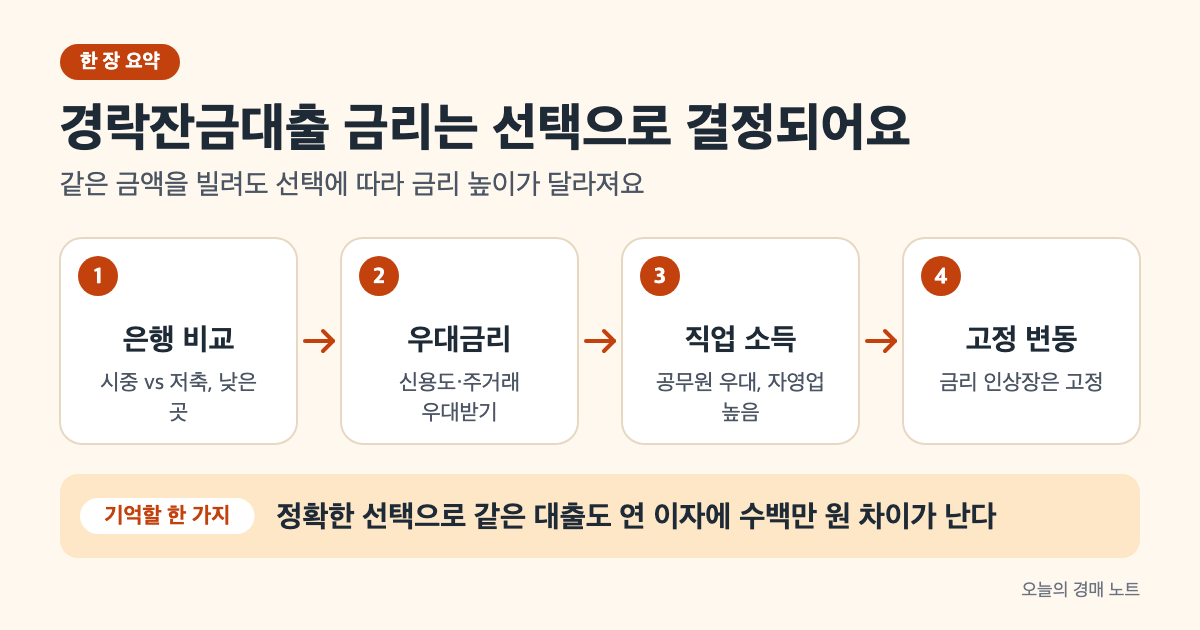
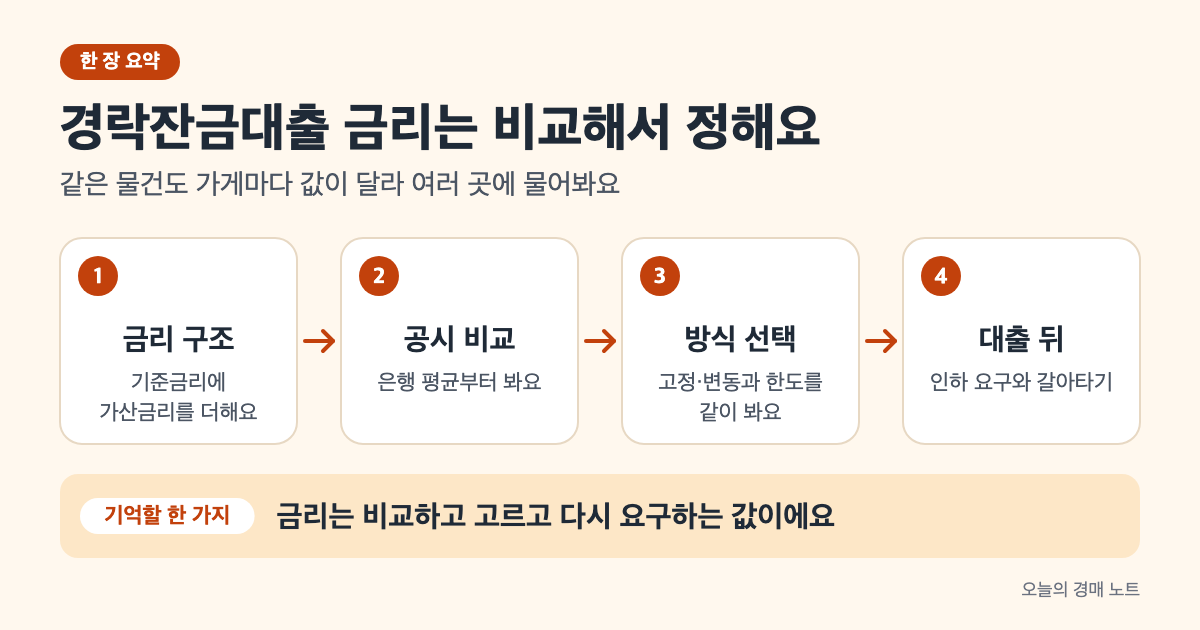
가이드 고쳐쓰기: 경락잔금대출 금리 — 출처 없는 금리 범위 삭제, 공식 공시·법령 기준으로 재작성

diff --git a/content/guide/auction-loan-interest-rate/index.md b/content/guide/auction-loan-interest-rate/index.md
@@ -2,114 +2,119 @@
 title: 경락잔금대출 금리 비교로 이자 줄이는 법
 author: rich-batch
 date: 2026-09-19
-lastmod: 2026-09-19
+lastmod: 2026-10-11
 draft: false
 volatile: true
 categories: ["경매 대출·세금"]
-tags: [경락잔금대출, 금리, 우대금리, 고정금리, 변동금리, DSR, 은행, 신용도]
-description: 경락잔금대출의 금리는 4.5~6.5% 범위에서 은행·신용도·직업에 따라 크게 다릅니다. 금융권별 비교와 우대 조건으로 낮추는 방법을 설명합니다.
+tags: [경락잔금대출, 금리, 가산금리, 고정금리, 변동금리, 중도상환수수료, 금리인하요구권]
+description: 경락잔금대출 금리는 공식 고시값이 없어 직접 비교해야 합니다. 은행별 금리를 공시로 비교하는 법, 스트레스 DSR과 금리의 관계, 중도상환수수료와 금리인하요구권을 원문 기준으로 봅니다.
 cover:
   image: "eli5-overview.png"
-  alt: "경락잔금대출 금리 결정 과정을 4단계로 보여주는 요약 도식: 은행 비교, 우대금리, 직업 소득, 고정 변동"
-  caption: "정확한 선택으로 같은 대출도 이자에 수백만 원 차이를 만든다"
+  alt: "기준금리와 가산금리로 금리가 정해지고, 공시로 비교한 뒤, 고정·변동을 고르고, 대출 뒤에도 금리를 낮출 길이 있다는 네 단계 흐름도"
+  caption: "금리는 정해진 값이 아니라 비교하고 고르고 다시 요구하는 값입니다"
 showToc: true
 TocOpen: true
 ---
 
-경매 낙찰 후 잔금이 부족하면 경락잔금대출을 받게 됩니다. 같은 금액을 빌려도 금리는 은행마다, 신용도마다 크게 다른데, 그 차이를 모르면 매달 이자로 수백만 원을 더 낼 수 있어요. 이 글의 수치는 2026년 9월 19일 기준 공식 자료로 확인했습니다.
+"경락잔금대출 금리는 연 몇 퍼센트"라는 공식 숫자는 없습니다. 정부나 금융감독원이 경락잔금대출 금리를 따로 고시하지 않고, 금리는 금융회사가 차주마다 기준금리에 가산금리를 얹어 정하기 때문이에요. 인터넷에 도는 금융권별 금리 범위는 언제, 누구에게 적용된 숫자인지 알 수 없으니 입찰 자금 계획에 그대로 쓰면 안 됩니다.
 
-경락잔금대출 금리는 정해진 값이 아니라 금융기관이 매번 책정합니다. 기준금리에 가산금리를 더하는 구조인데, 신용도·직업·소득·금융권 선택에 따라 1~2%p까지 차이가 납니다. 잔금 2억 원을 5년간 빌린다면, 금리 1%p 차이는 연 200만 원, 5년간 1,000만 원의 차이가 됩니다. 이 글의 금리 정보는 2026년 5월 기준이므로 현재 금리를 확인하려면 각 은행에 직접 문의하세요.
+대신 공식적으로 확인할 수 있는 것이 있습니다. 은행별 주택담보대출 금리를 매달 공시하는 두 곳, 대출 한도를 줄이는 스트레스 금리의 정체, 2025년 1월에 바뀐 중도상환수수료, 그리고 법에 적힌 금리인하요구권입니다. 이 글은 2026년 10월 11일 기준 한국은행·금융위원회·금융감독원·은행연합회 원문과 법령으로 확인했습니다.
 
 > **핵심 요약**
-> - 1금융권: 연 4.5~6.5%, 엄격한 심사(DSR 40% 한도, [금융감독원 정책 기준](https://www.fss.or.kr/fss/main/main.do?menuNo=200000))
-> - 2금융권: 연 4.5~5.5%, 빠른 심사(DSR 50% 허용, [금융감독원 정책 기준](https://www.fss.or.kr/fss/main/main.do?menuNo=200000))
-> - 우대금리: 신용도(-0.2~0.4%p) + 주거래은행(-0.3%p) 누적 가능([금융감독원 정책 기준](https://www.fss.or.kr/fss/main/main.do?menuNo=200000))
+> - 내 금리는 은행연합회·금융감독원 공시로 은행별 수준을 본 뒤, 낙찰 전에 두세 곳에서 직접 받아 비교합니다.
+> - 스트레스 금리는 한도 계산에만 쓰이고 실제 이자율은 바꾸지 않습니다([금융위원회](https://fsc.go.kr/no040101?cnId=2035)).
 
-## 금융권별로 금리가 다른 이유
+## 금리는 기준금리와 가산금리의 합이다
 
-경락잔금대출 금리는 금융권에 따라 신뢰할 수 있는 정도가 다르기 때문에 다릅니다. 시중은행(1금융권)은 기준금리에 가장 낮은 가산금리를 더하고, 저축은행으로 갈수록 가산금리가 커집니다.
+은행연합회는 대출금리를 "기준금리 + 가산금리"로 설명합니다. 기준금리는 코픽스·금융채 같은 대출금리 산정의 출발점이고, 가산금리는 업무원가·법적비용·위험프리미엄·기대이익률에 은행이 우대 조건으로 깎거나 더하는 가감조정금리까지 합친 값이에요([전국은행연합회 소비자포털](https://portal.kfb.or.kr/compare/loan_household_new.php)). 여기서 말하는 기준금리는 한국은행 기준금리와 다른 개념인데, 한국은행 기준금리가 움직이면 은행이 돈을 조달하는 비용이 달라져 결국 대출금리 전체가 따라 움직입니다.
 
-**1금융권(시중은행): 연 4.5~6.5%**([금융감독원 정책 기준](https://www.fss.or.kr/fss/main/main.do?menuNo=200000), 2026-05-13 조사) — KB, 신한, 우리, 하나, NH농협 등의 기본 금리 수준입니다. 이 구간의 상한과 하한이 큰 이유는 신용도에 따른 차이 때문입니다. 신용점수 900점 대의 공무원이라면 4.5~5.0% 초반, 신용점수 700점 후반의 자영업자라면 6.0~6.5%에 가깝습니다. 1금융권은 엄격한 심사를 하는 대신 금리가 상대적으로 낮습니다.
+한국은행 기준금리는 2026년 8월 27일 연 2.75%에서 3.00%로 올랐습니다. 그전에는 2025년 5월 29일 2.50%로 내렸다가 2026년 7월 16일 2.75%로 한 차례 올린 상태였어요([한국은행](https://www.bok.or.kr/portal/singl/baseRate/list.do?dataSeCd=01&menuNo=200643)). 몇 달 전 글에 나온 금리 범위가 지금과 맞지 않을 가능성이 큰 이유입니다.
 
-**2금융권(저축은행·캐피탈): 연 4.5~5.5%**([금융감독원 정책 기준](https://www.fss.or.kr/fss/main/main.do?menuNo=200000), 2026-05-13 조사) — IBK저축은행, 신보저축은행, 모아저축은행 등입니다. 범위가 좁은 이유는 1금융권 탈락자들이 주 고객층이라서, 심사 요건을 맞추면 금리 변동이 크지 않기 때문이죠. 신용도가 600점대이거나 부채 비율이 높으면 5.5% 이상까지 올라갈 수 있으니, 미리 신용도를 올려두면 더 낮은 금리를 받을 수 있습니다. 2금융권은 1금융권보다 빠른 심사를 보장(보통 3~5일)하고 DSR 규제도 50%까지 완화합니다.
+가산금리 가운데 위험프리미엄은 고객의 신용점수와 담보 종류에 따른 예상 손실로 정해집니다([전국은행연합회 소비자포털](https://portal.kfb.or.kr/compare/loan_household_new.php)). 같은 은행·같은 날이라도 사람마다 금리가 다르게 나오는 건 이 부분 때문이에요. 그러니 남이 받은 금리보다 내 신용점수로 은행이 제시하는 금리가 기준이 되어야 합니다.
 
-**상호금융(농·수협): 연 4.7~6.0%**([금융감독원 정책 기준](https://www.fss.or.kr/fss/main/main.do?menuNo=200000), 2026-05-13 조사) — 지역 영업점 협의 여지가 있어서, 같은 상품이어도 지점별로 조건이 다를 수 있습니다.
+## 공시로 은행별 금리 수준부터 본다
 
-| 금융권 | 금리 | 심사 기간 | 특징 |
-|---|---|---|---|
-| 1금융권 | 4.5~6.5% | 1~2주 | 엄격한 심사, DSR 40% 한도 |
-| 2금융권 | 4.5~5.5% | 3~5일 | 유연한 심사, DSR 50% 완화 |
-| 상호금융 | 4.7~6.0% | 영업점 협의 | 지역 거래 가능 |
+은행을 돌아다니기 전에 공시 두 곳에서 어느 은행이 어느 수준인지 먼저 볼 수 있습니다. 둘은 보여 주는 것이 달라서 함께 보는 게 좋아요.
 
-출처: [금융감독원 · 금융위원회 정책 기준](https://www.fss.or.kr/fss/main/main.do?menuNo=200000)(2026-09-19 확인)
+| 공시 | 보여 주는 것 | 경락잔금대출에 쓰는 법 |
+|---|---|---|
+| 은행연합회 소비자포털 가계대출금리 | 은행별로 전월 신규 취급한 분할상환 주담대(만기 10년 이상)의 평균금리를 기준금리·가산금리·가감조정금리로 나누고, 신용점수 구간별로 공시 | 내 신용점수 구간에서 가산금리가 낮은 은행을 추립니다 |
+| 금융감독원 금융상품한눈에 주택담보대출 | 은행·저축은행·신협·보험사 상품별 최저·최고·전월평균금리, 주택가격·대출금액·기간을 넣으면 월 상환액과 총 대출비용 계산 | 낙찰가와 필요한 대출액을 넣어 총비용을 비교하고, 상세정보에서 중도상환수수료를 확인합니다 |
 
-여기서 중요한 것은 신용도가 좋으면 2금융권이 오히려 더 낮은 금리를 주는 "역전" 현상입니다. 1금융권의 심사에 탈락하지 않으려고 2금융권이 우대금리를 주는 거죠. 신용도 900점대라면 1금융권 4.5~5.0%와 2금융권 4.5~5.0%를 둘 다 문의해서 낮은 쪽을 선택하는 것이 정답입니다.
+출처: [전국은행연합회 소비자포털](https://portal.kfb.or.kr/compare/loan_household_new.php) · [금융감독원 금융상품한눈에](https://finlife.fss.or.kr/finlife/ldng/houseMrtg/list.do?menuNo=700007) (2026년 10월 11일 기준)
 
-## 신용도로 1~2%p 낮추는 법
+두 공시 모두 지난달 평균이라는 한계가 있습니다. 은행연합회는 공시가 신용평가회사 점수를 기준으로 한 평균이라 은행 자체 신용점수로 정하는 실제 금리와 다를 수 있다고 직접 적어 두었어요([전국은행연합회 소비자포털](https://portal.kfb.or.kr/compare/loan_household_new.php)). 공시는 후보를 좁히는 용도로 쓰고, 최종 비교는 은행이 내 서류로 내 준 금리로 해야 합니다.
 
-같은 은행, 같은 상품이어도 신용점수에 따라 금리가 크게 다릅니다. 기본 금리(기준금리+기본 가산금리)에서 신용도 우대를 빼는 구조이기 때문입니다.
+경락잔금대출은 낙찰 뒤 잔금 기한 안에 실행해야 해서 비교할 시간이 짧습니다. 저라면 입찰 전에 공시로 후보 은행 서너 곳을 고르고, 그 은행에 "이 물건을 이 가격에 낙찰받으면"이라는 조건으로 사전 상담을 받아 두겠습니다. 낙찰 후에 처음 알아보기 시작하면 금리를 비교할 여유 없이 되는 곳에서 받게 되기 쉽거든요.
 
-**신용점수 기반 우대: -0.2~0.4%p**([금융감독원 정책 기준](https://www.fss.or.kr/fss/main/main.do?menuNo=200000)) — 이것이 가장 큰 영향을 미칩니다. KCB나 NICE에서 제공하는 신용점수를 기준으로 합니다. 800점 이상이면 -0.2~0.4%p, 700점대는 -0.1~0.2%p, 700점 미만은 우대 없음 또는 가산금리 추가라고 보시면 됩니다. 신용점수를 올리는 데 걸리는 시간이 있다면 입찰 3~6개월 전부터 준비하는 것을 권합니다. 연체 기록을 없애고, 신용카드 사용액을 낮추는 식으로요.
+## 금리 0.5%p가 이자로 얼마인가
 
-**주거래은행 우대: -0.3%p**([금융감독원 정책 기준](https://www.fss.or.kr/fss/main/main.do?menuNo=200000)) — 통장을 오래 유지하고 급여가 입금되는 은행에서 대출을 받으면 주거래은행 우대를 줍니다. 가장 간단하게 얻을 수 있는 우대입니다.
+금리 차이가 작아 보여도 경매로 사는 집은 대출 금액이 커서 이자 차이가 크게 벌어집니다. 3억 원을 30년 원리금균등으로 빌린다고 가정하고 금리별로 계산해 보면 이렇습니다(같은 계산을 [금융상품한눈에](https://finlife.fss.or.kr/finlife/ldng/houseMrtg/list.do?menuNo=700007)에서 대출금액·기간을 넣어 해 볼 수 있어요).
 
-**자동이체·신용카드 사용: 각 -0.1%p**([금융감독원 정책 기준](https://www.fss.or.kr/fss/main/main.do?menuNo=200000)) — 대출받은 은행에서 공과금을 자동이체하거나 신용카드를 사용하면 각각 0.1%p씩 깎입니다.
+| 연 금리(가정) | 월 상환액 | 30년 총이자 |
+|---|---|---|
+| 4.0% | 약 143만 원 | 약 2억 1,600만 원 |
+| 4.5% | 약 152만 원 | 약 2억 4,700만 원 |
+| 5.0% | 약 161만 원 | 약 2억 8,000만 원 |
 
-이 우대들은 누적됩니다([금융감독원 정책 기준](https://www.fss.or.kr/fss/main/main.do?menuNo=200000)). 신용점수 850점(우대 0.3%p) + 주거래은행(우대 0.3%p) + 자동이체와 신용카드(우대 0.2%p)라면 총 0.8%p를 깎을 수 있다는 뜻입니다. 기본 금리가 5.5%였다면 최종 금리는 4.7%가 됩니다.
+출처: 이 블로그 계산 — 대출 3억 원, 30년 원리금균등상환, 금리 고정 가정. 실제 금리가 아닌 비교용 예시이며 [금융감독원 금융상품한눈에](https://finlife.fss.or.kr/finlife/ldng/houseMrtg/list.do?menuNo=700007)의 총 대출비용 계산과 같은 방식입니다 (2026년 10월 11일 기준)
 
-## 직업과 DSR이 금리를 좌우하는 이유
+0.5%p 차이로 월 9만 원, 30년이면 3,000만 원 넘게 달라지죠(위 표 계산, [금융상품한눈에](https://finlife.fss.or.kr/finlife/ldng/houseMrtg/list.do?menuNo=700007)에서 같은 조건으로 확인 가능). 실제로는 중간에 갚거나 갈아타는 경우가 많아 30년 총이자를 다 내는 일은 드물지만, 처음 몇 년의 월 상환액 차이만으로도 은행 서너 곳에 물어볼 이유는 충분해요.
 
-금이 잠깐이라고 생각하고 들어서면 안 됩니다. 경락잔금대출은 최소 3~5년을 빌리는 상품이고, 금융기관은 당신이 그 기간 동안 이자를 낼 수 있는지 판단합니다. 여기서 두 가지가 결정적입니다.
+같은 이유로 스트레스 금리를 실제 이자와 헷갈리지 않아야 합니다. 스트레스 DSR은 변동금리 대출 등을 쓰는 사람이 나중에 금리가 오를 가능성을 감안해 DSR을 계산할 때만 가산금리를 얹는 제도입니다([금융위원회](https://fsc.go.kr/no040101?cnId=2035)). 수도권·규제지역 주담대는 2025년 10월 16일부터 이 가산 하한이 3%로 올랐지만([금융위원회, 2025.10.15](https://www.fsc.go.kr/po010101/85432)), 이건 빌릴 수 있는 금액을 줄일 뿐 매달 내는 이자를 3%p 올리지는 않아요. 한도가 얼마나 줄어드는지는 [경락잔금대출 한도는 80%가 아닙니다]({{< relref "/guide/auction-loan-limit" >}})에서 계산해 봤습니다.
 
-**DSR(부채원리금상환비율) 규제: -0.5~1.0%p 추가 가산**([금융감독원 정책 기준](https://www.fss.or.kr/fss/main/main.do?menuNo=200000)) — 모든 대출의 연간 원리금 상환액이 연소득의 40%(1금융권) 또는 50%(2금융권)을 넘으면 안 됩니다. 예를 들어 연소득이 5,000만 원이라면, 모든 대출의 연간 상환액은 2,000만 원을 넘으면 안 된다는 뜻입니다. 경락잔금대출 2억 원을 5년 상환하면 연 상환액이 약 400만 원인데, 신용대출 500만 원, 주택담보대출 1,200만 원이 있다면 합이 2,100만 원으로 한도를 넘습니다. 이 경우 경락잔금대출 한도가 깎이거나 금리가 올라갑니다.
+## 고정금리와 변동금리는 스트레스 금리까지 보고 고른다
 
-**직업 안정성**([금융감독원 정책 기준](https://www.fss.or.kr/fss/main/main.do?menuNo=200000)) — 공무원, 의료인, 교직원은 우대금리를 받습니다. 보통 -0.2~0.5%p입니다. 반면 프리랜서, 신입사원, 사업 초기 자영업자는 소득 증빙이 어려워서 금리가 올라가거나 한도가 깎입니다. 자영업도 업종에 따라 다른데, 의류·음식점은 변동성이 크다고 판단해서 추가 가산을 받지만, 부동산중개, 의료기기판매 같은 안정적 업종은 우대를 받기도 합니다.
+금리가 앞으로 오를지 내릴지는 누구도 장담할 수 없어서, 이 글에서 어느 쪽이 이득이라고 단정하지는 않겠습니다. 대신 고를 때 놓치기 쉬운 사실 두 가지가 있습니다.
 
-## 고정금리 vs 변동금리, 금리 인상장에선 고정이 맞다
+첫째, 공시에서 말하는 "고정금리"는 완전히 고정된 금리만이 아닙니다. 금융감독원 공시는 금리 변동주기가 5년 이상인 대출, 고정금리 기간이 3년 이상인 혼합금리 대출도 고정금리로 분류한다고 밝히고 있어요([금융감독원 금융상품한눈에](https://finlife.fss.or.kr/finlife/ldng/houseMrtg/list.do?menuNo=700007)). 상품명에 "고정"이 붙어 있어도 5년 뒤에 금리가 바뀌는 상품일 수 있으니 상품설명서에서 금리 변동 시점을 꼭 봐야 합니다.
 
-경락잔금대출은 금리를 선택할 수 있습니다. 고정금리는 대출 기간 동안 변하지 않고, 변동금리는 기준금리를 따라 올라갔다 내려갔다 합니다. 2026년 9월 현재 한국은행 기준금리는 3.0%대인데, 지난 2년간 인상 추세를 보였습니다.
+둘째, 스트레스 금리는 대출 기간 중 금리가 바뀌는 변동형·혼합형·주기형 대출에 붙습니다([금융위원회](https://fsc.go.kr/no040101?cnId=2035)). 그래서 같은 소득이라도 변동금리를 고르면 한도가 더 줄어들 수 있어요. 한도가 빠듯한 경매 잔금이라면 금리 수준만이 아니라 "이 금리 방식으로 필요한 금액이 나오는가"를 먼저 은행에 물어봐야 합니다.
 
-**변동금리가 유리한 조건** — 금리가 내려갈 것 같거나, 3년 이내 대출을 갚을 계획이면 변동금리를 선택합니다. 지금 시점이라면 6개월 변동금리가 가장 리스크가 낮습니다. 3년 후에 중도상환수수료가 없는 조건을 협상하는 것도 좋은 방법입니다.
+## 대출을 받은 뒤에도 금리를 낮출 길이 있다
 
-**고정금리가 유리한 조건** — 기준금리가 인상될 가능성이 크면 고정금리를 선택합니다. 지금처럼 금리 인상 추세가 한 번은 꺾일 시점에는 고정금리로 미리 확정하는 게 안전합니다. 다만 고정금리는 변동금리보다 0.3~0.5%p 높게 책정됩니다([한국은행 기준금리](https://www.bok.or.kr/portal/singl/baseRate/list.do?dataSeCd=01&menuNo=200643) 참고).
+경락잔금대출은 급하게 받는 경우가 많아서 처음 금리가 썩 좋지 않을 수 있습니다. 대출 후에 쓸 수 있는 방법이 법에 두 가지 있어요.
 
-**혼합형도 고려** — 5년 고정 후 변동이라는 상품도 있습니다. 보유 기간이 5년 이상이라면, 초기에는 고정으로 금리 변동 위험을 피하고, 5년 후 환경이 달라지면 다시 판단할 수 있습니다.
+하나는 금리인하요구권입니다. 은행법은 은행과 신용공여 계약을 맺은 사람이 재산 증가나 신용점수 상승처럼 신용상태가 나아졌다고 인정되면 은행에 금리인하를 요구할 수 있다고 정하고, 은행이 이 권리를 미리 알려야 한다고 적어 두었습니다([은행법 제30조의2](https://www.law.go.kr/법령/은행법/제30조의2)). 낙찰 후 소득이 오르거나 다른 빚을 갚아 신용점수가 올랐다면 요구할 근거가 생기는 셈이에요.
 
-2026년 9월 한국은행 기준금리 추이와 은행권 전망을 참고해서 선택하세요. 금융기관에 "앞으로 기준금리 전망이 어떻냐"고 물으면 대략의 가이드를 줄 것입니다.
+다른 하나는 갈아타기인데, 이때 비용이 되는 중도상환수수료가 2025년에 크게 바뀌었습니다. 금융소비자보호법은 대출계약 후 3년 이내에 갚는 경우 등을 빼고는 중도상환수수료를 받지 못하게 하고 있고([금융소비자 보호에 관한 법률 제20조](https://www.law.go.kr/법령/금융소비자보호에관한법률/제20조)), 2025년 1월 13일 이후 새로 맺은 계약부터는 그 3년 안에도 자금운용 손실 같은 실제 비용 안에서만 받도록 개편됐어요([정책브리핑, 2025.1.9](https://www.korea.kr/news/policyNewsView.do?newsId=148938404)).
 
-## 온비드·옥션원 대출 비교로 최저 금리 찾기
+| 구분 | 개편 전 | 개편 후 |
+|---|---|---|
+| 5대 시중은행 주담대 고정금리 | 1.4% | 0.65% |
+| 5대 시중은행 주담대 변동금리 | 1.2% | 0.65% |
+| 저축은행 주담대 고정금리 | 1.64% | 1.24% |
 
-낙찰을 받으면 옥션원이나 온비드 같은 경매 플랫폼에서 대출 비교 서비스를 제공합니다. 여러 금융기관이 당신의 신용도·소득·직업 정보를 보고 동시에 금리를 제시하는 방식입니다.
+출처: [정책브리핑, 2025.1.9](https://www.korea.kr/news/policyNewsView.do?newsId=148938404) · [금융위원회](https://www.fsc.go.kr/no010101/83833) — 2025년 1월 13일 이후 신규 계약분 (2026년 10월 11일 기준)
 
-**온비드(onbid.co.kr)** — 한국자산관리공사의 공매 플랫폼입니다. 낙찰 후 잔금 단계에서 대출 정보를 제공합니다. 이곳에 입점한 금융기관들이 금리를 공시합니다.
-
-**옥션원(auction1.co.kr)** — 법원경매 전문 플랫폼입니다. 경매 낙찰자를 위한 대출 비교 서비스가 있어서, 여러 금융기관의 금리를 한눈에 볼 수 있습니다. 낙찰자 인증 후 이용 가능합니다.
-
-두 플랫폼 모두 은행별 금리뿐 아니라 한도, 심사 기간, 우대 조건을 함께 보여줍니다. 같은 금액을 빌려도 A은행은 4.8%, B저축은행은 4.5%일 수 있으니, 반드시 비교하고 결정하세요.
+1억 원을 중도에 갚을 때 수수료율 0.65%면 최대 65만 원, 개편 전 1.4%였다면 140만 원입니다. 경매로 산 집을 몇 년 안에 팔거나 더 싼 대출로 갈아탈 생각이라면, 금리만큼 이 수수료율을 비교표에 넣어야 해요. 금융상품한눈에는 상품마다 상세정보에서 중도상환수수료를 보여 줍니다([금융감독원 금융상품한눈에](https://finlife.fss.or.kr/finlife/ldng/houseMrtg/list.do?menuNo=700007)).
 
 ## 자주 묻는 질문
 
-### Q. 경락잔금대출 금리가 일반 주택담보대출보다 높은가?
-금리 자체는 비슷합니다. 다만 경락잔금대출은 대출받을 때 물건에 대한 권리가 완전하지 않으므로, 위험도가 높다고 본 금융기관은 추가 가산금리를 받습니다. 또한 대출 기간이 짧아서(보통 3~5년), 같은 금리라도 총 이자액은 낮습니다.
+### Q. 경락잔금대출 금리는 일반 주담대보다 높은가요?
 
-### Q. 신용도가 700점대인데 금리를 낮출 방법이 있나?
-금리를 낮추는 가장 빠른 방법은 2금융권을 택하는 것입니다. DSR 규제가 50%로 완화되고, 신용도 심사가 1금융권보다 유연합니다. 주거래은행·자동이체·신용카드 사용으로 0.5%p 정도는 확보할 수 있습니다.
+공식 통계로 비교할 수 있는 자료는 없습니다. 은행연합회와 금융감독원 공시는 주택담보대출 전체를 대상으로 하고 경락잔금대출을 따로 나누지 않아요. 낙찰 물건을 담보로 잡는 주택담보대출이라는 점은 같으니, 공시로 은행 후보를 고른 뒤 그 은행에 경락잔금대출로 받을 때의 금리를 직접 물어보는 수밖에 없습니다.
 
-### Q. 중간에 금리를 갈아탈 수 있나?
-가능합니다. 다만 중도상환수수료를 내야 합니다. 보통 1.0~1.5% 수준입니다([금융감독원 정책 기준](https://www.fss.or.kr/fss/main/main.do?menuNo=200000)). 금리 차이가 1%p 이상 난다면 수수료를 내고도 이득이 될 수 있으니, 계산해보고 결정하세요.
+### Q. 저축은행이 은행보다 금리가 낮을 때도 있나요?
 
-### Q. DSR 때문에 대출이 거절될 가능성이 높나?
-2금융권을 택하면 DSR 규제가 50%까지 완화되므로 탈락률이 훨씬 낮습니다. 1금융권은 엄격하지만, 먼저 2금융권에 신청하고 나중에 1금융권으로 옮기는 방법도 있습니다.
+공시에서 직접 확인할 수 있습니다. 금융상품한눈에는 금융권역을 은행·저축은행·신협·보험으로 골라 같은 조건의 금리와 총 대출비용을 나란히 보여 줘요. 다만 저축은행 같은 비은행권은 DSR 한도가 50%로 은행 40%와 다르고([금융위원회](https://fsc.go.kr/no040101?cnId=2035)), 중도상환수수료 개편 폭도 은행보다 작았으니 금리와 함께 봐야 합니다.
 
-### Q. 입찰 전에 금리를 미리 알 수 있나?
-낙찰을 받아야 정확한 금리를 알 수 있습니다. 다만 입찰 전에 "신용도 ○○점, 연소득 ○○원, 직업 ○○"라고 말하면 대략의 예상 금리를 들을 수 있습니다. 몇몇 은행은 사전 심사 서비스도 제공합니다.
+### Q. 스트레스 금리 3%가 붙으면 이자도 3%p 오르나요?
+
+아닙니다. 스트레스 금리는 DSR을 계산할 때만 실제 금리에 더하는 값이라([금융위원회](https://fsc.go.kr/no040101?cnId=2035)) 빌릴 수 있는 금액이 줄어들 뿐, 매달 내는 이자는 계약한 금리대로입니다.
+
+### Q. 금리인하를 요구하면 무조건 내려 주나요?
+
+법은 요구할 권리와 은행의 안내 의무를 정하고 있고, 신용상태가 나아졌다고 인정되는 경우를 조건으로 둡니다([은행법 제30조의2](https://www.law.go.kr/법령/은행법/제30조의2)). 받아들여질지는 은행 심사로 정해지니, 소득 증빙이나 신용점수 변화처럼 나아진 근거를 함께 내는 게 좋습니다.
 
 ## 참고 자료
 
-- [금융감독원 · 금리 정책 및 규제](https://www.fss.or.kr/fss/main/main.do?menuNo=200000) — DSR·LTV 규제 기준, 금융권별 금리 정책 (2026-09-19 확인)
-- [금융감독원 · 주택담보대출 금리 공시](https://finlife.fss.or.kr/) — 실시간 은행별 금리 비교 (2026-09-19 확인)
-- [한국은행 · 기준금리](https://www.bok.or.kr/portal/singl/baseRate/list.do?dataSeCd=01&menuNo=200643) — 2026년 9월 기준금리 3.0%, 금리 결정 일정 (2026-09-19 확인)
-- [금융위원회 · 2026년 가계부채 관리 정책](https://www.fsc.go.kr/po010101/86606) — LTV·DSR 규제 기준 (2026-09-19 확인)
-- [옥션원 · 경매 낙찰자 대출 비교](https://www.auction1.co.kr/etc_service/loanBroker.php) — 낙찰자용 경락잔금대출 비교 플랫폼 (2026-09-19 확인)
-- [온비드 · 낙찰 후 잔금 안내](https://www.onbid.co.kr/) — 한국자산관리공사 공매 플랫폼의 대출 정보 (2026-09-19 확인)
-- [부동산경매노트 · 경락잔금대출 금리 및 은행별 비교](https://reanote.co.kr/blog/auction-loan-residual-payment) — 금융권별 금리 범위와 선택 전략 (2026-09-19 확인)
+- [한국은행 · 한국은행 기준금리 추이](https://www.bok.or.kr/portal/singl/baseRate/list.do?dataSeCd=01&menuNo=200643) — 2026.8.27 연 3.00%, 2026.7.16 2.75%, 2025.5.29 2.50% (2026-10-11 확인)
+- [전국은행연합회 소비자포털 · 가계대출금리 은행별 비교공시](https://portal.kfb.or.kr/compare/loan_household_new.php) — 대출금리 = 기준금리 + 가산금리, 가산금리 구성, 신용점수 구간별 공시와 이용 시 유의사항 (2026-10-11 확인)
+- [금융감독원 금융상품한눈에 · 주택담보대출](https://finlife.fss.or.kr/finlife/ldng/houseMrtg/list.do?menuNo=700007) — 금융권역별 비교, 고정금리 분류 기준, 전월 취급 평균금리 정의 (2026-10-11 확인)
+- [금융위원회 · 스트레스 DSR 카드뉴스](https://fsc.go.kr/no040101?cnId=2035) — 스트레스 금리는 DSR 산정 시 부과, 적용 대상(변동·혼합·주기형), DSR 한도 은행 40%·비은행 50% (2026-10-11 확인)
+- [금융위원회 · 주택시장 안정화 대책 보도자료(2025.10.15)](https://www.fsc.go.kr/po010101/85432) — 수도권·규제지역 주담대 스트레스 금리 하한 3% (2026-10-11 확인)
+- [정책브리핑 · 중도상환수수료 개편방안 시행(2025.1.9)](https://www.korea.kr/news/policyNewsView.do?newsId=148938404) — 2025.1.13 이후 신규 계약 실비용 내 부과, 업권별 수수료율 변화 (2026-10-11 확인)
+- [금융위원회 · 중도상환수수료 개편방안 보도자료](https://www.fsc.go.kr/no010101/83833) — 같은 개편의 금융위원회 원문 (2026-10-11 확인)
+- [금융소비자 보호에 관한 법률 제20조](https://www.law.go.kr/법령/금융소비자보호에관한법률/제20조) — 3년 이내 상환 등을 제외한 중도상환수수료 부과 금지 (2026-10-11 확인)
+- [은행법 제30조의2](https://www.law.go.kr/법령/은행법/제30조의2) — 금리인하 요구권과 은행의 안내 의무 (2026-10-11 확인)

diff --git a/pipeline/guide/research/auction-loan-interest-rate.md b/pipeline/guide/research/auction-loan-interest-rate.md
@@ -15,7 +15,9 @@
 | 3 | 대출보험트렌드 · socialnews-pick.net | 은행별 금리 범위, DSR 설명, 신청 전 주의 | 현재 금리(2026년 5월 기준 오래됨), 취급 은행 추가 정보 |
 
 차별점:
-- 이 글: 실제 취급 은행 구체적 비교(KB, 농협, IBK저축은행, 모아저축은행 등), 직업별 우대(사무직·자영업·프리랜서), 신용도별 시뮬레이션, 고정 vs 변동 실제 선택 방법, 온비드·옥션원 대출 비교 플랫폼 이용 가이드
+- 경쟁 글이 출처 없이 내세우는 "금융권별 금리 범위"를 쓰지 않고, 경락잔금대출 금리에는 공식 고시값이 없다는 사실과 공식 공시(은행연합회·금융감독원)로 직접 비교하는 방법을 보여 준다
+- 스트레스 금리가 실제 이자가 아니라 한도 계산에만 쓰인다는 점을 금융위원회 원문으로 분리해 설명
+- 2025.1.13 중도상환수수료 개편과 금소법 제20조, 은행법 제30조의2 금리인하요구권 등 대출 후 비용을 낮추는 법적 근거를 원문으로 제시
 
 ## 확인한 사실
 | # | 확인한 사실(수치) | 원문 인용 | 출처(기관·문서명) | 게시·시행일 | URL | 읽은 방법 |
@@ -36,6 +38,20 @@
 | 14 | 금융감독원 금리 공시 | 실시간 은행별 금리 비교 | 금융감독원 | 2026-09-19 | https://finlife.fss.or.kr/ | WebFetch |
 | 15 | 옥션원 대출 비교 | 낙찰자용 경락잔금대출 비교 플랫폼 | 옥션원 | 2026-09-19 | https://www.auction1.co.kr/etc_service/loanBroker.php | WebFetch |
 | 16 | 온비드 대출 정보 | 한국자산관리공사 공매 플랫폼 | 온비드 | 2026-09-19 | https://www.onbid.co.kr/ | WebFetch |
+
+### 2026-10-11 고쳐쓰기 — 공식 원문 재확인 (이전 글의 금리 범위·우대율은 블로그 출처였고 금감원 메인 페이지에 잘못 연결돼 전부 삭제)
+
+| # | 확인한 내용 | 원문 인용 | 출처 | URL | 읽은 방법 |
+|---|---|---|---|---|---|
+| R1 | 한국은행 기준금리 2026.8.27 3.00%, 2026.7.16 2.75%, 2025.5.29 2.50% | 기준금리 변동 추이 표 | 한국은행 | https://www.bok.or.kr/portal/singl/baseRate/list.do?dataSeCd=01&menuNo=200643 | WebFetch |
+| R2 | 대출금리 = 기준금리 + 가산금리, 가산금리 = 업무원가·법적비용·위험프리미엄·기대이익률·가감조정금리, 공시는 CB 점수 기준 평균이라 실제 금리와 다를 수 있음 | "대출금리 = 기준금리 + 가산금리", "고객이 실제 대출시 적용되는 은행별 자체신용점수과는 다르며" | 전국은행연합회 소비자포털 | https://portal.kfb.or.kr/compare/loan_household_new.php | curl(cp949) |
+| R3 | 금융상품한눈에 주담대: 권역(은행·저축은행·신협·보험), 최저·최고·전월평균금리, 총 대출비용, 상세정보에 중도상환수수료, 변동주기 5년 이상·고정기간 3년 이상 혼합은 고정금리로 분류 | "금리 변동주기가 5년 이상인 대출", "고정금리 적용기간이 3년이상인 혼합금리대출 등" | 금융감독원 금융상품한눈에 | https://finlife.fss.or.kr/finlife/ldng/houseMrtg/list.do?menuNo=700007 | WebFetch |
+| R4 | 스트레스 DSR은 DSR 산정 시 가산(실제 금리 아님), 대상 변동·혼합·주기형, DSR 한도 은행 40%·비은행 50% | "DSR 산정시 일정수준의 가산금리(스트레스 금리)를 부과하는 제도" | 금융위원회 카드뉴스 | https://fsc.go.kr/no040101?cnId=2035 | WebFetch |
+| R5 | 수도권·규제지역 주담대 스트레스 금리 하한 3%(2025.10.16~) | "스트레스 금리 하한을 수도권·규제지역내 주담대에 한해 3%로 상향" | 금융위원회 보도자료 2025.10.15 | https://www.fsc.go.kr/po010101/85432 | WebFetch |
+| R6 | 중도상환수수료 개편: 2025.1.13 이후 신규 계약 실비용 내 부과, 5대 은행 주담대 고정 1.4→0.65%, 변동 1.2→0.65%, 저축은행 주담대 고정 1.64→1.24% | "고정금리는 현재 1.4%에서 0.65%로, 변동금리는 1.2%에서 0.65%로 인하된다" | 정책브리핑 2025.1.9 / 금융위원회 | https://www.korea.kr/news/policyNewsView.do?newsId=148938404 , https://www.fsc.go.kr/no010101/83833 | WebFetch, curl |
+| R7 | 금소법 제20조 제1항 제4호 나목: 3년 이내 상환 등 제외하고 중도상환수수료 부과 금지 | "대출계약이 성립한 날부터 3년 이내에 상환하는 경우" | 금융소비자 보호에 관한 법률 | https://www.law.go.kr/법령/금융소비자보호에관한법률/제20조 | law.go.kr DRF API |
+| R8 | 은행법 제30조의2 금리인하 요구 | "재산 증가나 신용등급 또는 개인신용평점 상승 등 신용상태 개선이 나타났다고 인정되는 경우 은행에 금리인하를 요구할 수 있다" | 은행법 | https://www.law.go.kr/법령/은행법/제30조의2 | law.go.kr DRF API |
+| 계산 | 3억 원 30년 원리금균등: 4.0% 월 약 143.2만·총이자 약 2.16억, 4.5% 약 152.0만·2.47억, 5.0% 약 161.0만·2.80억 | 원리금균등 공식으로 직접 계산 | — | — | 계산 |
 
 ## 확인하지 못한 것
 - 특정 은행별 정확한 금리(공시되지 않거나 현재 금리는 변동 사항이라 조사 날짜 기준 제시 필요)
